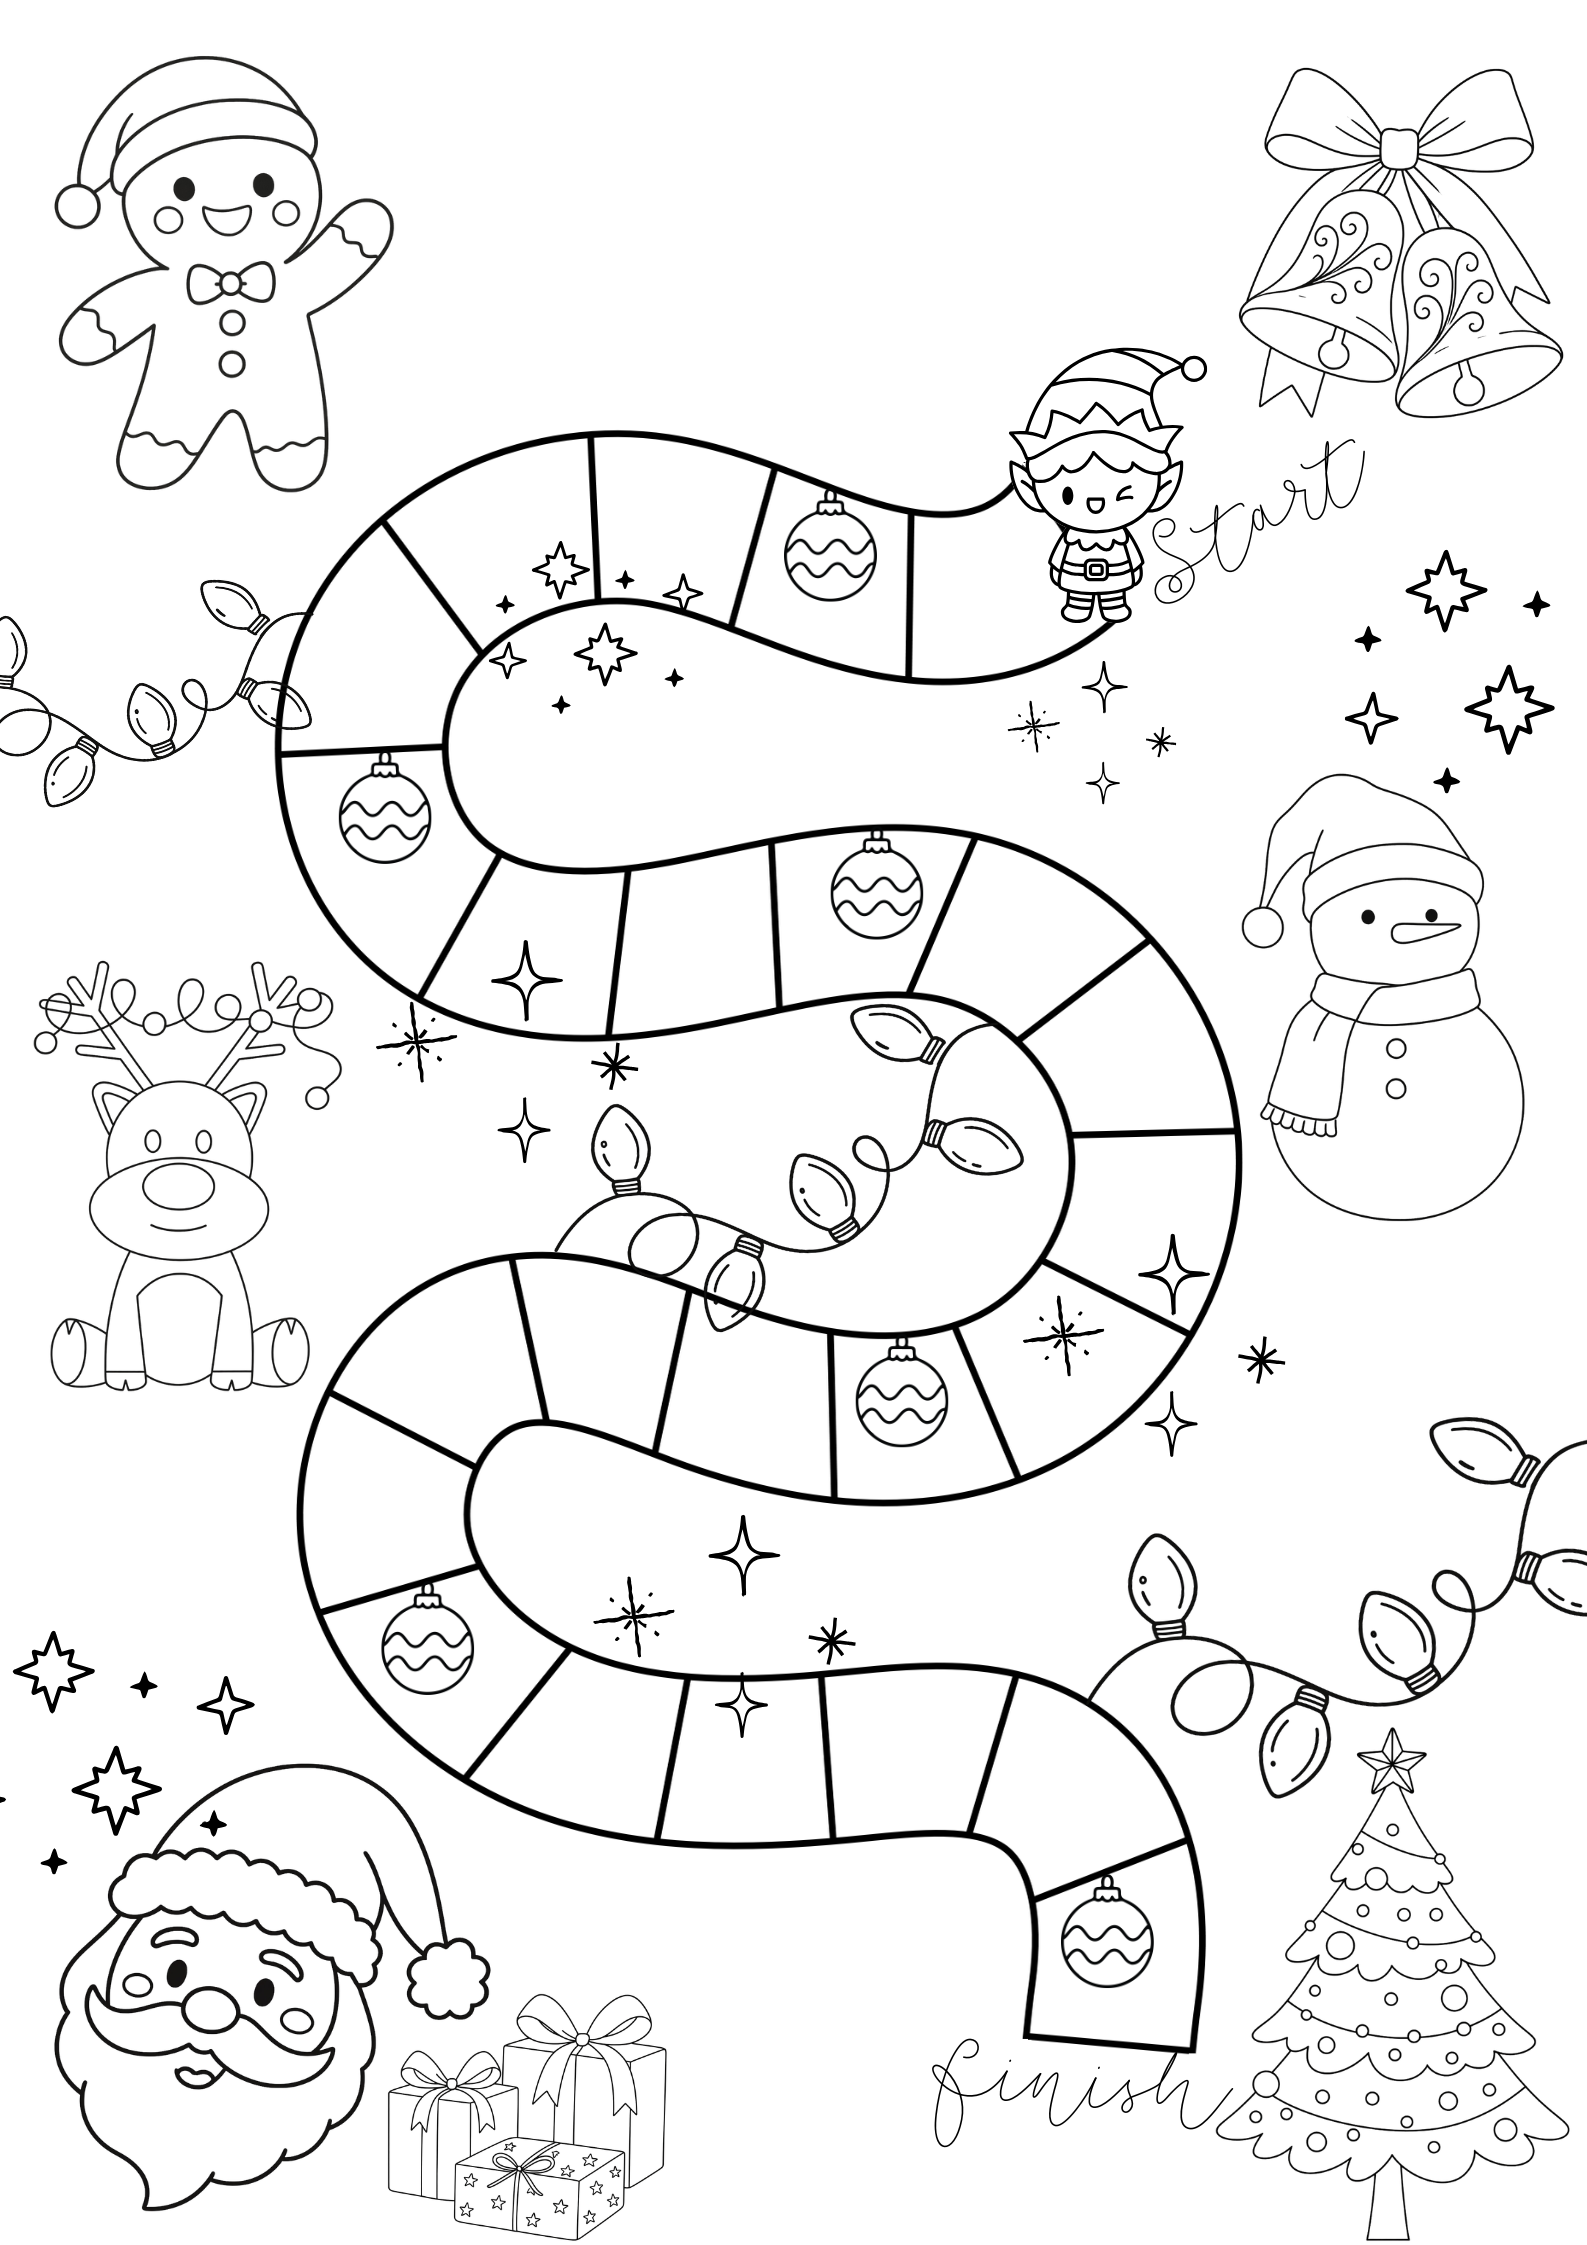
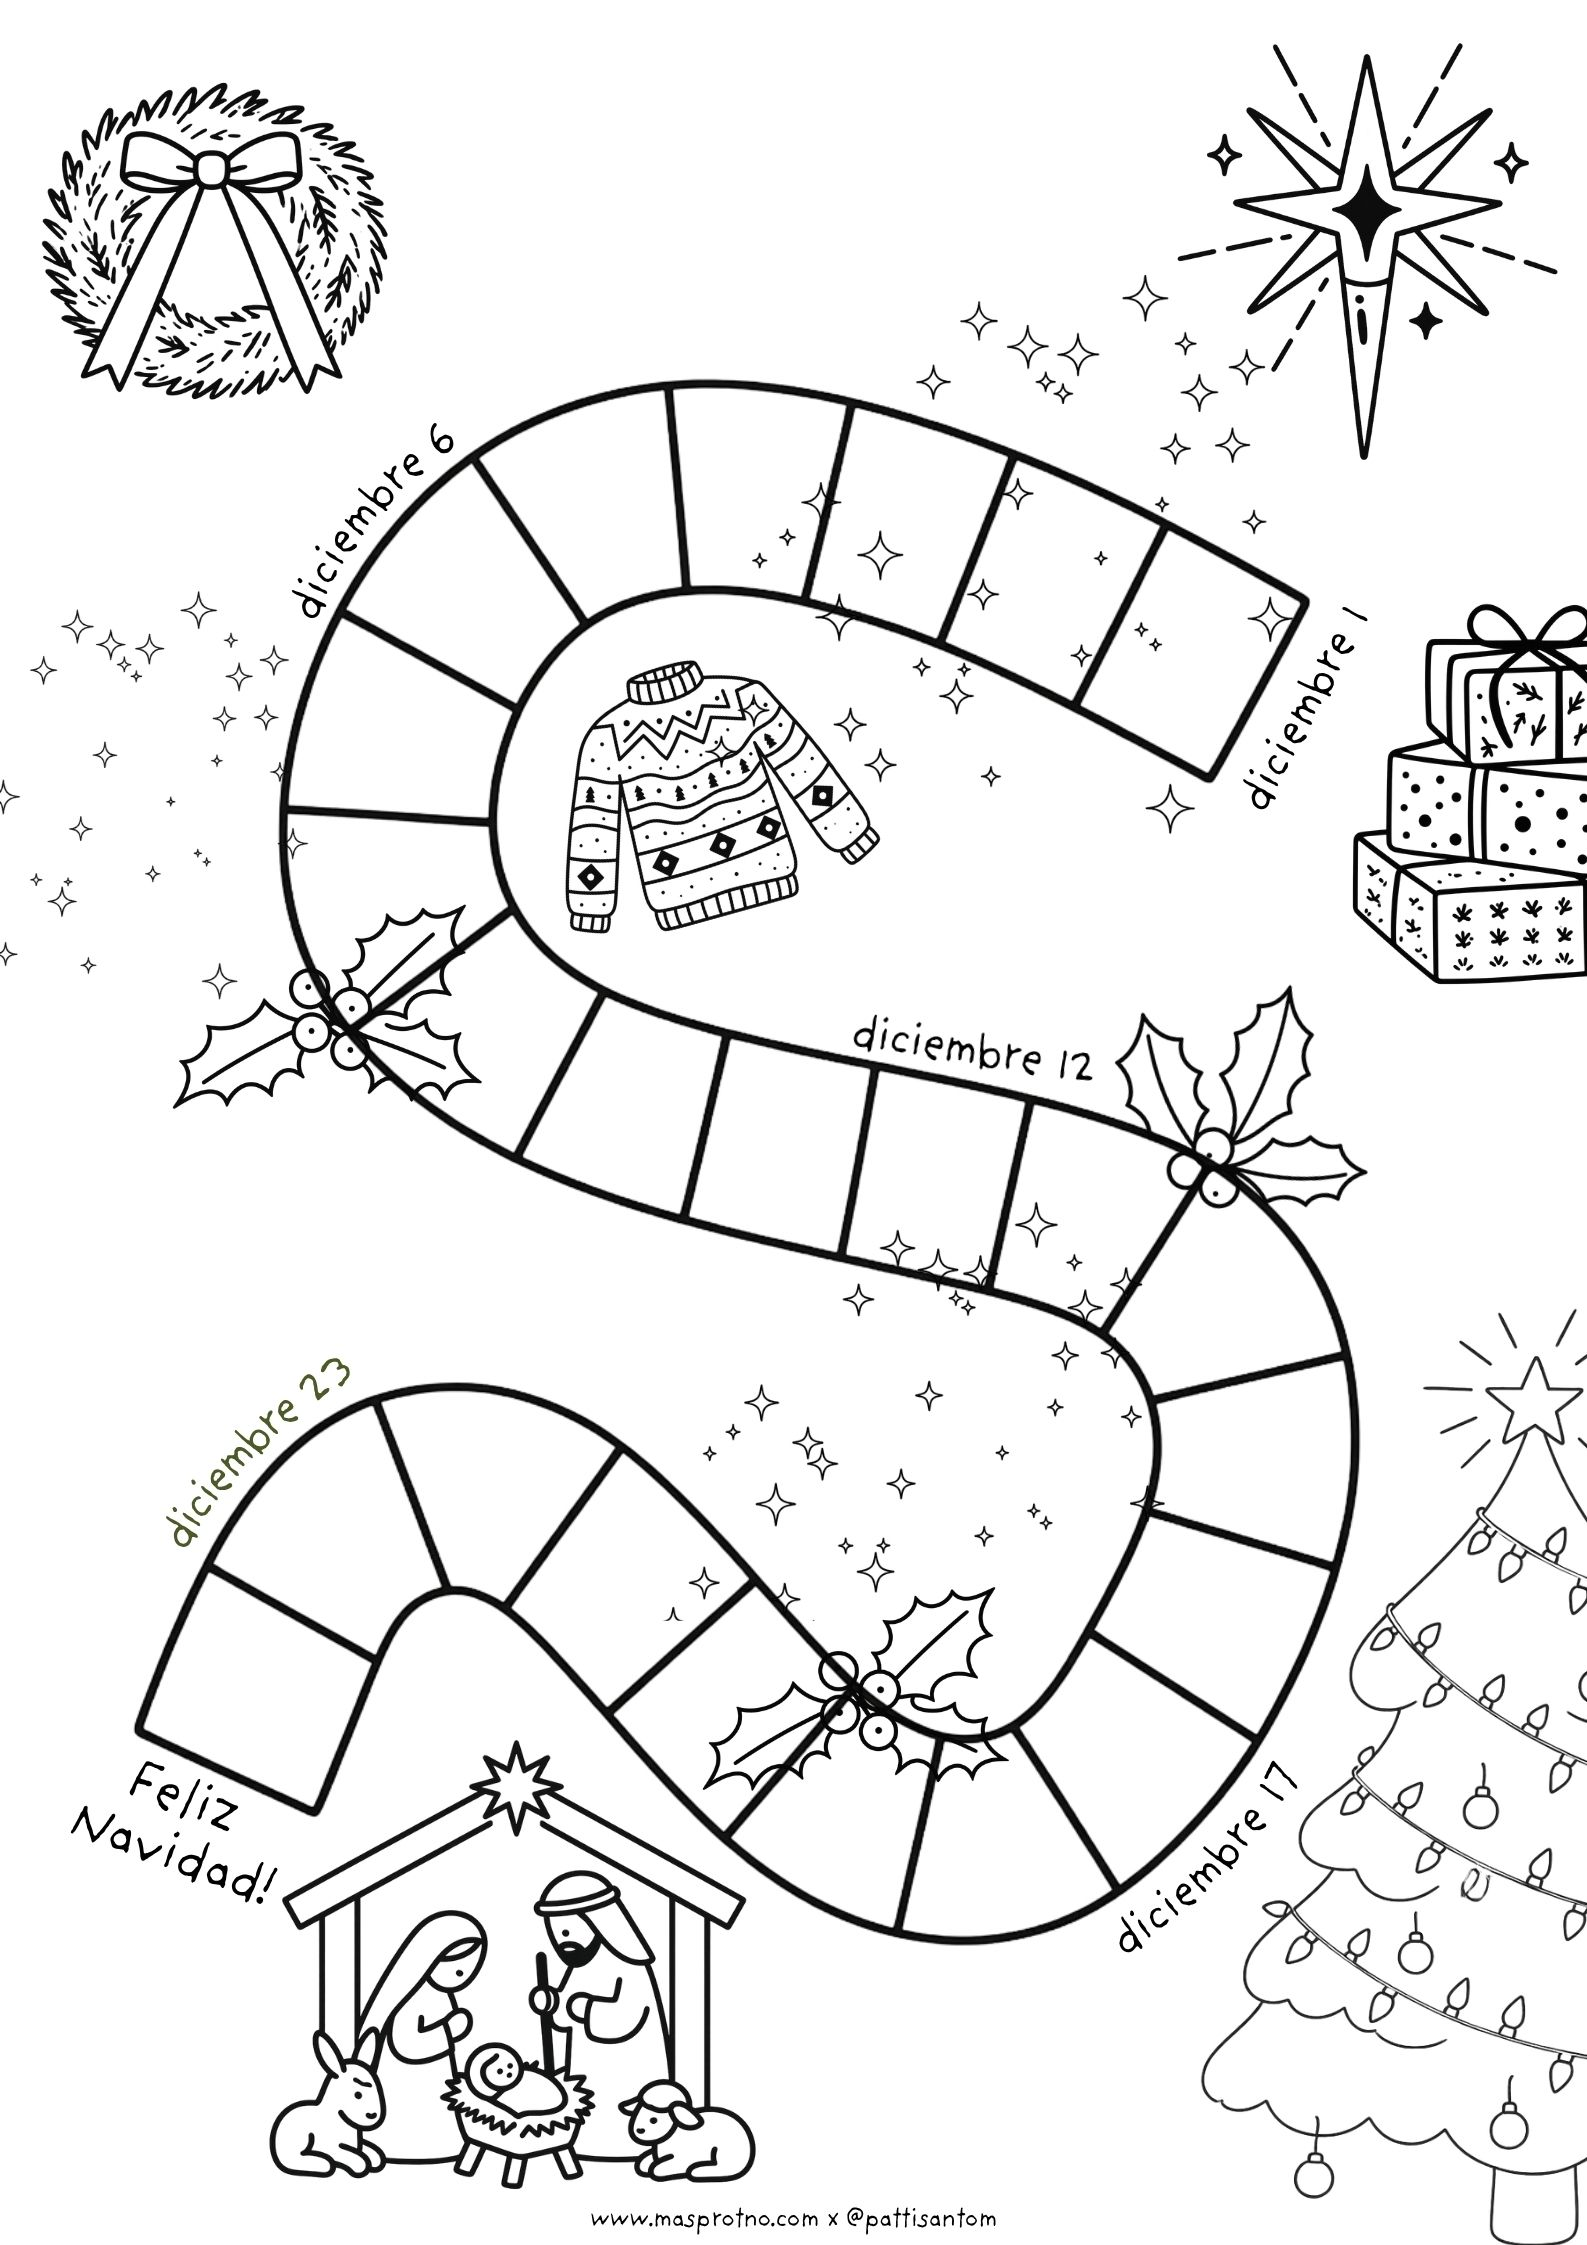
Agregar opción de descarga a color para el calendario de adviento

diff --git a/lib/email.js b/lib/email.js
@@ -58,18 +58,32 @@ function emailWrapper(bodyHtml) {
 </html>`
 }
 
-export async function sendDigitalDownloadEmail({ to, name, downloadUrl }) {
+export async function sendDigitalDownloadEmail({ to, name, downloadUrl, downloadUrlColor }) {
   const transport = createTransport()
+
+  const buttonStyle = "display:inline-block;background:#F5FF6E;color:#1A1A1A;font-family:'DM Sans',Arial,sans-serif;font-weight:700;font-size:16px;padding:16px 36px;border-radius:40px;text-decoration:none;"
+
+  const buttons = downloadUrlColor ? `
+    <div style="text-align:center;margin:0 0 12px;">
+      <a href="${downloadUrl}" style="${buttonStyle}">📥 Descargar en blanco y negro</a>
+    </div>
+    <div style="text-align:center;margin:0 0 28px;">
+      <a href="${downloadUrlColor}" style="${buttonStyle}">🎨 Descargar a color</a>
+    </div>` : `
+    <div style="text-align:center;margin:0 0 28px;">
+      <a href="${downloadUrl}" style="${buttonStyle}">📥 Descargar mi mapa</a>
+    </div>`
+
+  const intro = downloadUrlColor
+    ? 'Tu calendario personalizado está listo para descargar e imprimir en casa, en blanco y negro para pintar o a color. Haz clic abajo para descargar la versión que quieras.'
+    : 'Tu mapa personalizado está listo para descargar e imprimir en casa. Haz clic abajo para descargarlo.'
+
   const body = `
     <h1 style="font-family:Georgia,serif;font-style:italic;font-weight:800;color:#1A1A1A;font-size:26px;margin:0 0 8px;">¡Tu Pronto Path está listo! 🗺</h1>
     <p style="color:#1A1A1A;font-size:16px;margin:0 0 8px;">Hola ${name},</p>
-    <p style="color:rgba(13,59,46,0.7);font-size:15px;line-height:1.6;margin:0 0 28px;">Tu mapa personalizado está listo para descargar e imprimir en casa. Haz clic abajo para descargarlo.</p>
+    <p style="color:rgba(13,59,46,0.7);font-size:15px;line-height:1.6;margin:0 0 28px;">${intro}</p>
 
-    <div style="text-align:center;margin:0 0 28px;">
-      <a href="${downloadUrl}" style="display:inline-block;background:#F5FF6E;color:#1A1A1A;font-family:'DM Sans',Arial,sans-serif;font-weight:700;font-size:16px;padding:16px 36px;border-radius:40px;text-decoration:none;">
-        📥 Descargar mi mapa
-      </a>
-    </div>
+    ${buttons}
 
     <div style="background:#A8E6CF;border-radius:12px;padding:16px 20px;">
       <p style="margin:0;color:#1A1A1A;font-size:13px;line-height:1.5;">
@@ -85,18 +99,32 @@ export async function sendDigitalDownloadEmail({ to, name, downloadUrl }) {
   })
 }
 
-export async function sendDigitalDownloadEmailEn({ to, name, downloadUrl }) {
+export async function sendDigitalDownloadEmailEn({ to, name, downloadUrl, downloadUrlColor }) {
   const transport = createTransport()
+
+  const buttonStyle = "display:inline-block;background:#F5FF6E;color:#1A1A1A;font-family:'DM Sans',Arial,sans-serif;font-weight:700;font-size:16px;padding:16px 36px;border-radius:40px;text-decoration:none;"
+
+  const buttons = downloadUrlColor ? `
+    <div style="text-align:center;margin:0 0 12px;">
+      <a href="${downloadUrl}" style="${buttonStyle}">📥 Download in black &amp; white</a>
+    </div>
+    <div style="text-align:center;margin:0 0 28px;">
+      <a href="${downloadUrlColor}" style="${buttonStyle}">🎨 Download in color</a>
+    </div>` : `
+    <div style="text-align:center;margin:0 0 28px;">
+      <a href="${downloadUrl}" style="${buttonStyle}">📥 Download my map</a>
+    </div>`
+
+  const intro = downloadUrlColor
+    ? "Your personalised calendar is ready to download and print at home, in black & white for coloring or in full color. Click below to download whichever version you'd like."
+    : 'Your personalised map is ready to download and print. Click below to get started.'
+
   const body = `
     <h1 style="font-family:Georgia,serif;font-style:italic;font-weight:800;color:#1A1A1A;font-size:26px;margin:0 0 8px;">Your Pronto Path is ready! 🗺</h1>
     <p style="color:#1A1A1A;font-size:16px;margin:0 0 8px;">Hi ${name},</p>
-    <p style="color:rgba(13,59,46,0.7);font-size:15px;line-height:1.6;margin:0 0 28px;">Your personalised map is ready to download and print. Click below to get started.</p>
+    <p style="color:rgba(13,59,46,0.7);font-size:15px;line-height:1.6;margin:0 0 28px;">${intro}</p>
 
-    <div style="text-align:center;margin:0 0 28px;">
-      <a href="${downloadUrl}" style="display:inline-block;background:#F5FF6E;color:#1A1A1A;font-family:'DM Sans',Arial,sans-serif;font-weight:700;font-size:16px;padding:16px 36px;border-radius:40px;text-decoration:none;">
-        📥 Download my map
-      </a>
-    </div>
+    ${buttons}
 
     <div style="background:#A8E6CF;border-radius:12px;padding:16px 20px;">
       <p style="margin:0;color:#1A1A1A;font-size:13px;line-height:1.5;">

diff --git a/app/api/webhook/route.js b/app/api/webhook/route.js
@@ -1,6 +1,6 @@
 import { stripe } from '@/lib/stripe'
 import { fetchJson, savePdf, savePng } from '@/lib/storage'
-import { generateMapPdfFromConfig, generateMapPngFromConfig } from '@/lib/generateMapPdf'
+import { generateMapPdfFromConfig, generateMapPngFromConfig, COLOR_VARIANT_THEMES } from '@/lib/generateMapPdf'
 import { createPrintfulOrder } from '@/lib/printful'
 import { sendDigitalDownloadEmail, sendDigitalDownloadEmailEn, sendPhysicalOrderEmail } from '@/lib/email'
 import { v4 as uuidv4 } from 'uuid'
@@ -52,16 +52,24 @@ async function fulfillOrder(session) {
   const mapPdfBuffer = await generateMapPdfFromConfig(config)
   const mapFileUrl = await savePdf(mapPdfBuffer, `map-${orderId}.pdf`)
 
+  // Some themes (currently only Christmas/Advent) also ship a full-color
+  // version alongside the default black-and-white one.
+  let mapFileUrlColor = null
+  if (COLOR_VARIANT_THEMES.has(config.theme)) {
+    const colorPdfBuffer = await generateMapPdfFromConfig({ ...config, variant: 'color' })
+    mapFileUrlColor = await savePdf(colorPdfBuffer, `map-${orderId}-color.pdf`)
+  }
+
   const emailFn = locale === 'en' ? sendDigitalDownloadEmailEn : sendDigitalDownloadEmail
 
   if (product === 'digital') {
-    await emailFn({ to: customerEmail, name: customerName, downloadUrl: mapFileUrl })
+    await emailFn({ to: customerEmail, name: customerName, downloadUrl: mapFileUrl, downloadUrlColor: mapFileUrlColor })
     console.log(`Digital order ${orderId} fulfilled — email sent to ${customerEmail}`)
     return
   }
 
   // Physical Kit: send PDF digital immediately, then branch on country
-  await emailFn({ to: customerEmail, name: customerName, downloadUrl: mapFileUrl })
+  await emailFn({ to: customerEmail, name: customerName, downloadUrl: mapFileUrl, downloadUrlColor: mapFileUrlColor })
   console.log(`Physical kit PDF sent to ${customerEmail}`)
 
   // Stripe API 2026-06-24.dahlia moved shipping address to collected_information.shipping_details

diff --git a/lib/generateMapPdf.js b/lib/generateMapPdf.js
@@ -177,11 +177,19 @@ export const MAP_OVERLAY_POSITIONS = {
 
 const INK = rgb(0.102, 0.102, 0.102) // #1A1A1A
 
-export async function generateMapPdfFromConfig({ theme, character, title, subtitle, font }) {
+// Themes that offer a full-color download alongside the default
+// black-and-white (colorable) version. Add a theme key here once its
+// "<name>-color.png" asset exists in that theme's /public/images/maps folder.
+export const COLOR_VARIANT_THEMES = new Set(['christmas'])
+
+export async function generateMapPdfFromConfig({ theme, character, title, subtitle, font, variant = 'bw' }) {
   const folder = THEME_FOLDER[theme] ?? 'nothemepath'
   const prefix = THEME_PREFIX[theme] ?? 'notheme'
   const isChristmas = theme === 'christmas'
-  const imageName = isChristmas ? 'christmas' : `${prefix}-${character}`
+  const useColor = variant === 'color' && COLOR_VARIANT_THEMES.has(theme)
+  const imageName = isChristmas
+    ? (useColor ? 'christmas-color' : 'christmas')
+    : `${prefix}-${character}`
   const imagePath = path.join(process.cwd(), 'public', 'images', 'maps', folder, `${imageName}.png`)
 
   const pngBuffer = await sharp(imagePath)
